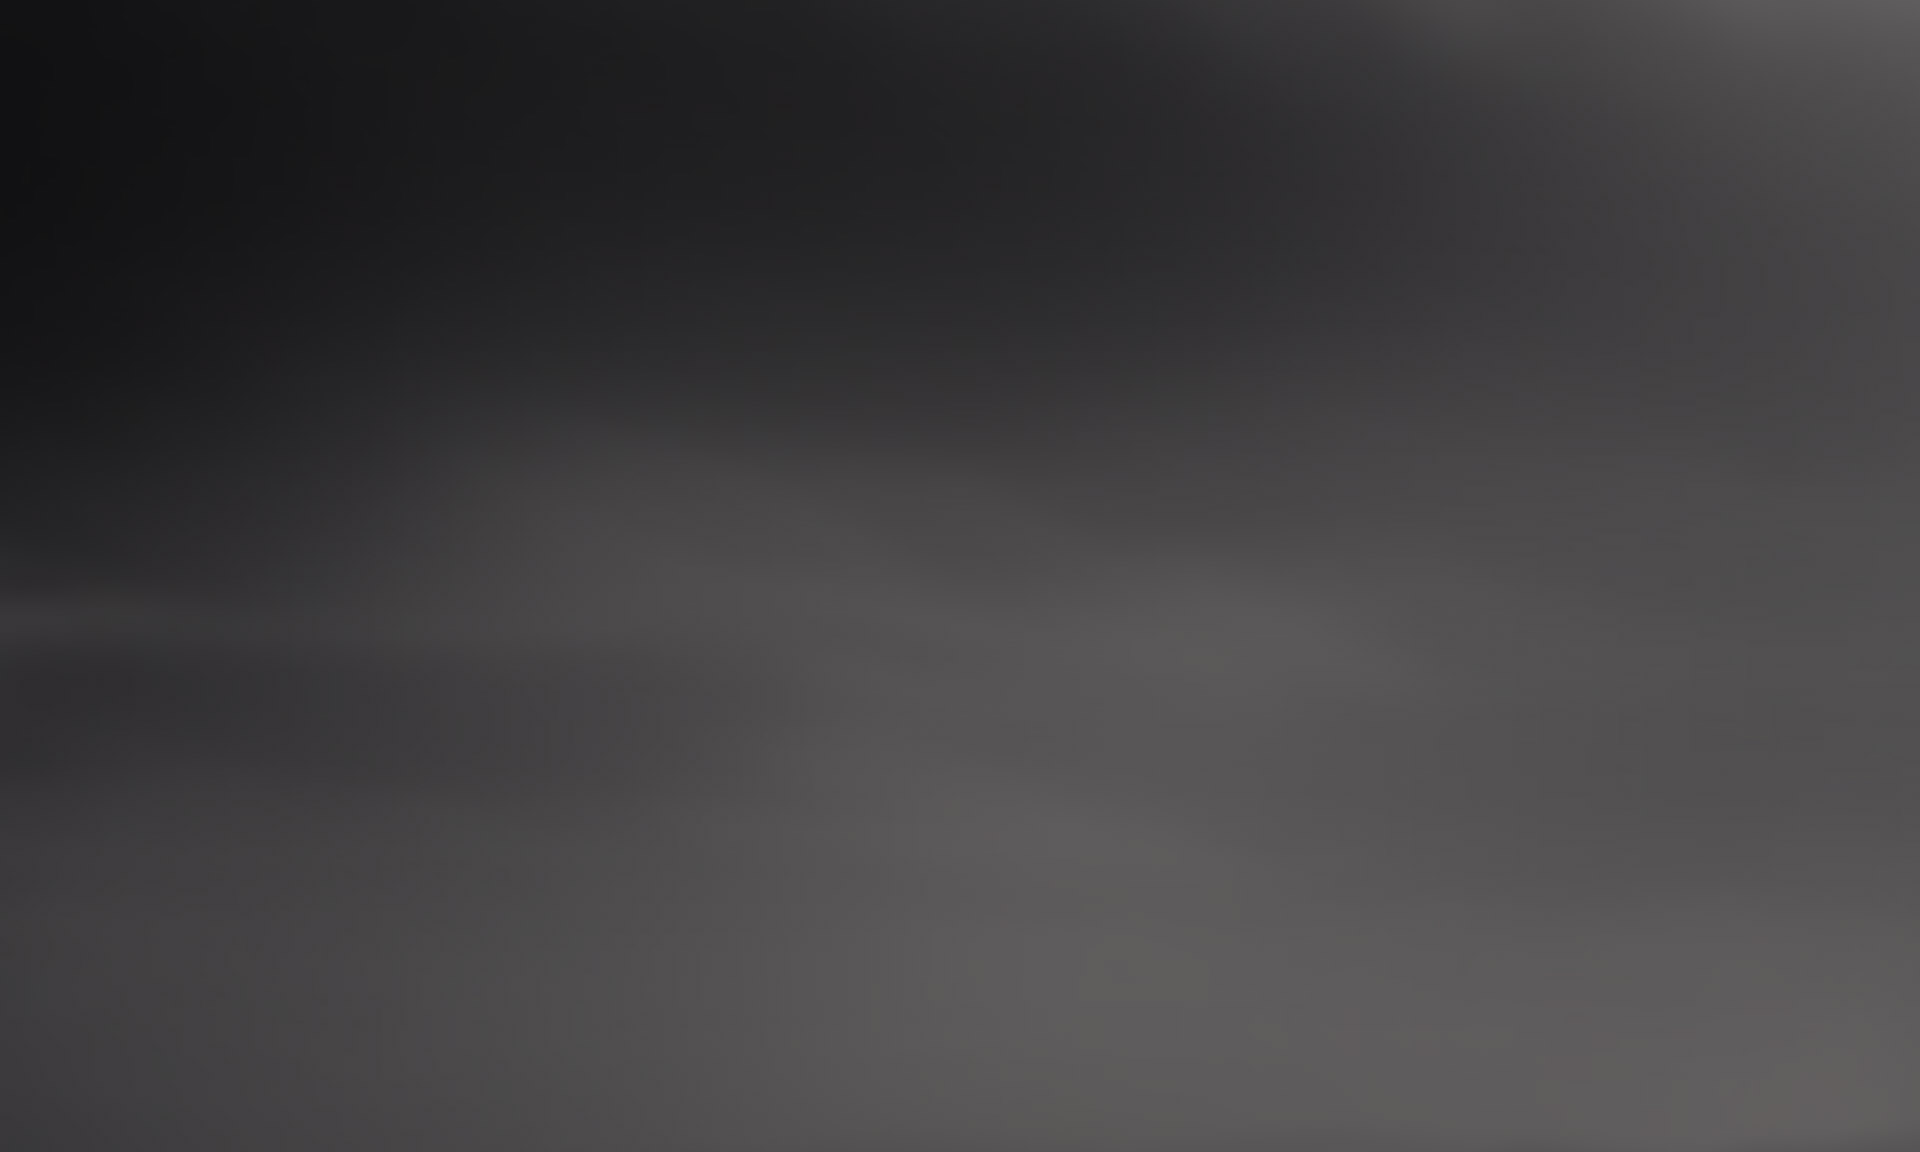
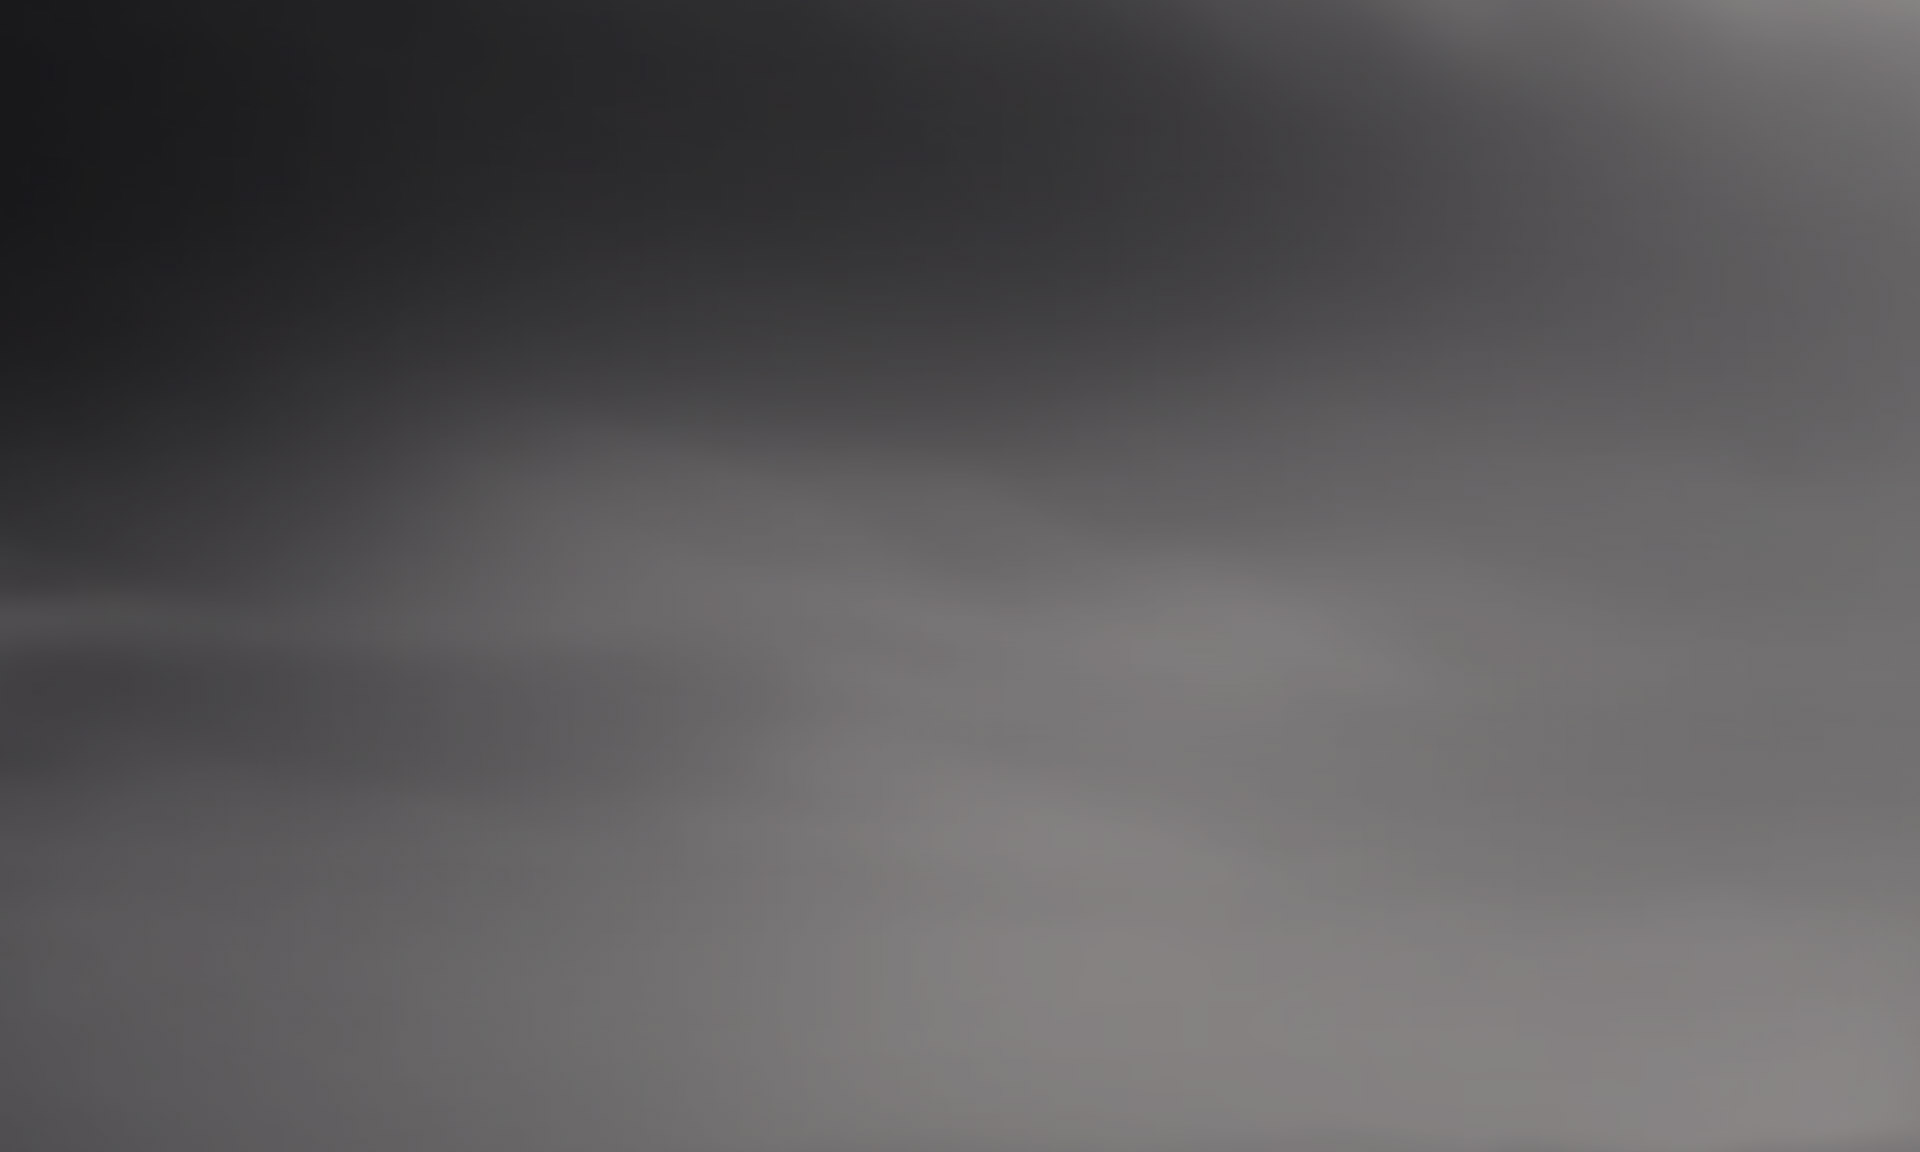
122121212

diff --git a/css/main.css b/css/main.css
@@ -10,6 +10,15 @@
 	src: url('https://dl.dropboxusercontent.com/u/34021949/web/web_ok/font/cwTeXHei.ttf');
 	
 }
+
+html { 
+  background: url(../img/bg.jpg) no-repeat center center fixed; 
+  -webkit-background-size: cover;
+  -moz-background-size: cover;
+  -o-background-size: cover;
+  background-size: cover;
+}
+
 body {
 	font-size:1em;
 	background-color:#0d0d0d;
